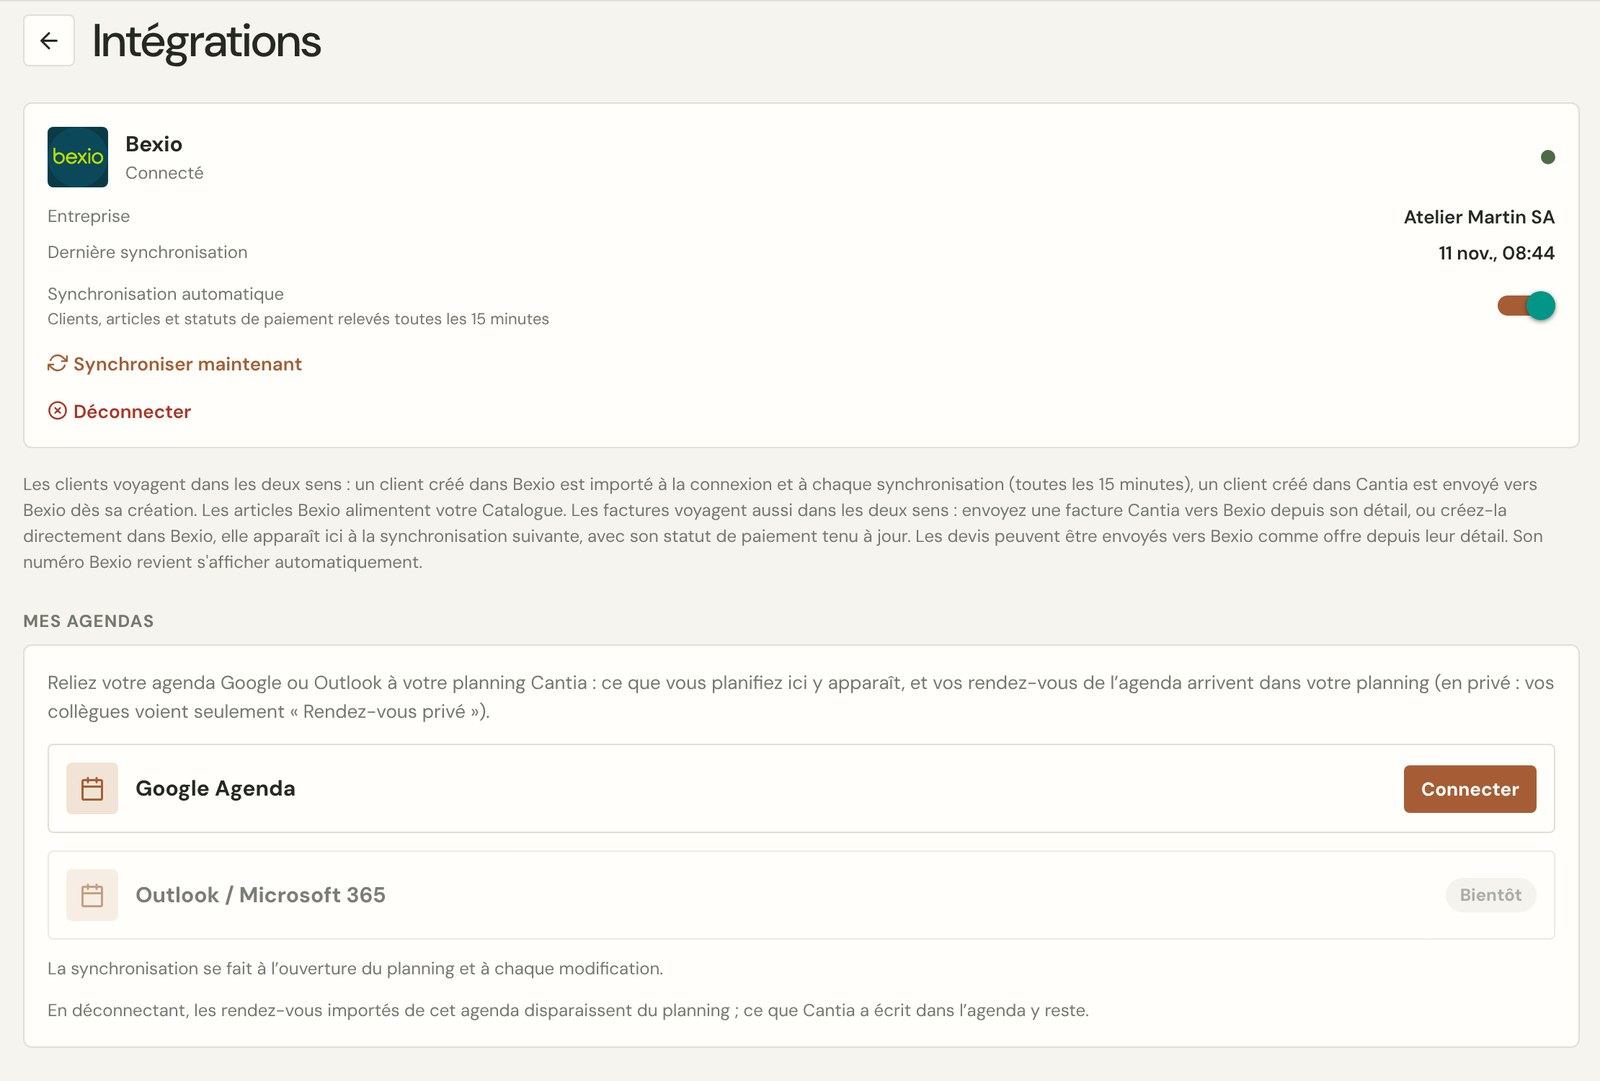
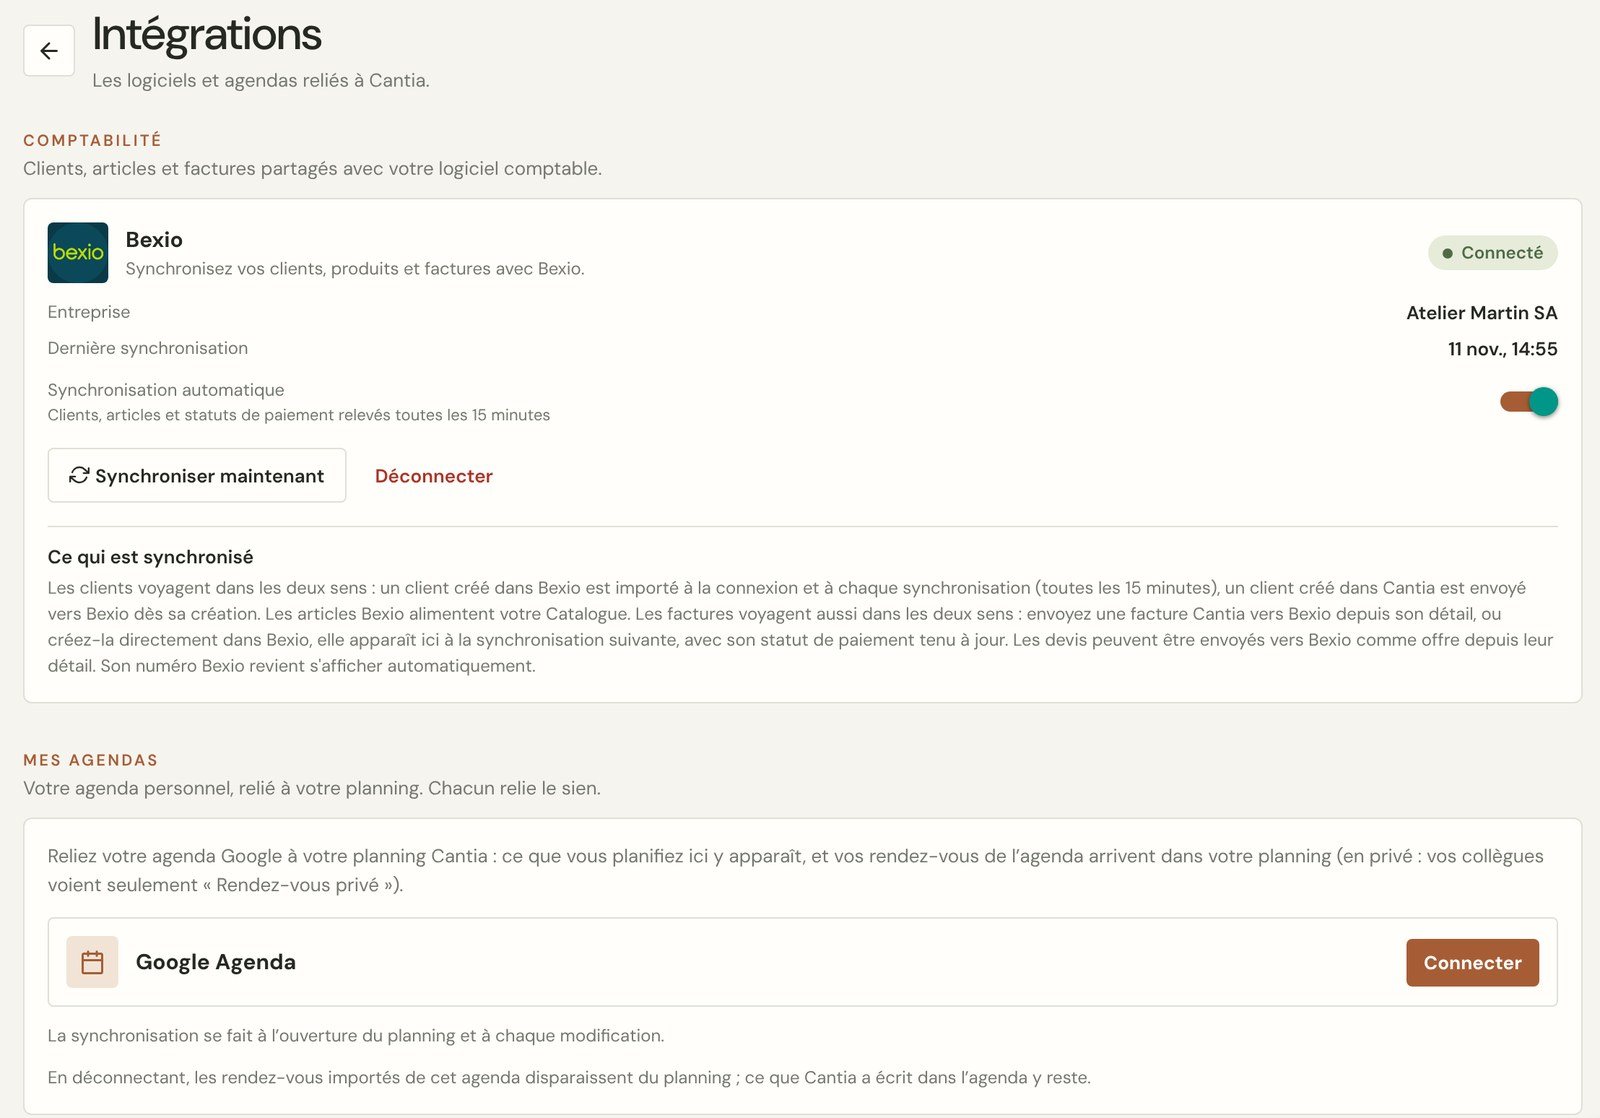
Intégrations : section « On reprend vos données » et capture Bexio à jour
Import Excel/CSV des contacts, projets, devis, factures et dépenses,
décrit tel qu'il fonctionne dans l'app. Capture sans Outlook « Bientôt ».

Claude-Session: https://claude.ai/code/session_01CbUBuqiAHhNgBBVdNwoKUJ

diff --git a/app/integrations.tsx b/app/integrations.tsx
@@ -2,7 +2,7 @@ import { StyleSheet, Text, View } from 'react-native';
 import { Feather } from '@expo/vector-icons';
 import { SolutionPage } from '../components/SolutionPage';
 import { getAppLocale, useTranslation } from '../lib/translations';
-import { ScreenShot, Section, SectionHead, useSiteLayout } from '../components/site/Sections';
+import { Callout, ScreenShot, Section, SectionHead, useSiteLayout } from '../components/site/Sections';
 import { EXPORTS } from '../components/site/exports';
 import { sans, site } from '../lib/siteTheme';
 
@@ -55,6 +55,70 @@ const SYNC = {
   },
 } as const;
 
+// Data import as it works in the app (app/(app)/compte/import.tsx):
+// .xlsx, .xls or .csv; five kinds; columns matched automatically then checked.
+const IMPORT = {
+  fr: {
+    eyebrow: 'On reprend vos données',
+    title: 'Vous ne repartez pas de zéro.',
+    text: 'Vos clients, vos projets et votre historique vous suivent. Vous les importez en quelques minutes, depuis Compte → Import de données. Vos données actuelles ne sont jamais écrasées.',
+    cards: [
+      { icon: 'file-text', title: 'Excel ou CSV', text: 'Exportez depuis votre ancien logiciel ou votre tableur : Cantia lit les fichiers .xlsx, .xls et .csv.' },
+      { icon: 'layers', title: 'Cinq types de données', text: 'Contacts, projets (chantiers), devis, factures et dépenses. Devis et factures reprennent le montant total de chaque document, pour garder l’historique.' },
+      { icon: 'check-square', title: 'Colonnes reconnues', text: 'Cantia associe vos colonnes aux bons champs. Vous vérifiez la correspondance avant d’importer.' },
+    ],
+    helpStrong: 'Un fichier compliqué ?',
+    help: 'Envoyez votre export à info@cantia.ch : nous regardons avec vous comment le reprendre.',
+  },
+  de: {
+    eyebrow: 'Wir übernehmen Ihre Daten',
+    title: 'Sie fangen nicht bei null an.',
+    text: 'Ihre Kunden, Projekte und Ihr Verlauf kommen mit. Sie importieren sie in wenigen Minuten unter Konto → Datenimport. Bestehende Daten werden nie überschrieben.',
+    cards: [
+      { icon: 'file-text', title: 'Excel oder CSV', text: 'Exportieren Sie aus Ihrer bisherigen Software oder Tabelle: Cantia liest .xlsx-, .xls- und .csv-Dateien.' },
+      { icon: 'layers', title: 'Fünf Datenarten', text: 'Kontakte, Projekte (Baustellen), Offerten, Rechnungen und Ausgaben. Offerten und Rechnungen übernehmen den Gesamtbetrag jedes Dokuments, für den Verlauf.' },
+      { icon: 'check-square', title: 'Spalten erkannt', text: 'Cantia ordnet Ihre Spalten den richtigen Feldern zu. Sie prüfen die Zuordnung vor dem Import.' },
+    ],
+    helpStrong: 'Eine schwierige Datei?',
+    help: 'Senden Sie Ihren Export an info@cantia.ch: Wir schauen gemeinsam, wie wir ihn übernehmen.',
+  },
+  it: {
+    eyebrow: 'Riprendiamo i vostri dati',
+    title: 'Non ripartite da zero.',
+    text: 'I vostri clienti, progetti e lo storico vi seguono. Li importate in pochi minuti, da Conto → Importazione dati. I dati attuali non vengono mai sovrascritti.',
+    cards: [
+      { icon: 'file-text', title: 'Excel o CSV', text: 'Esportate dal vostro vecchio software o foglio di calcolo: Cantia legge i file .xlsx, .xls e .csv.' },
+      { icon: 'layers', title: 'Cinque tipi di dati', text: 'Contatti, progetti (cantieri), preventivi, fatture e spese. Preventivi e fatture riprendono l’importo totale di ogni documento, per conservare lo storico.' },
+      { icon: 'check-square', title: 'Colonne riconosciute', text: 'Cantia associa le vostre colonne ai campi giusti. Verificate la corrispondenza prima di importare.' },
+    ],
+    helpStrong: 'Un file complicato?',
+    help: 'Inviate il vostro export a info@cantia.ch: vediamo insieme come riprenderlo.',
+  },
+} as const;
+
+function ImportSection() {
+  const locale = (getAppLocale() as 'fr' | 'de' | 'it') ?? 'fr';
+  const c = IMPORT[locale] ?? IMPORT.fr;
+  const { phone } = useSiteLayout();
+  return (
+    <Section white>
+      <SectionHead eyebrow={c.eyebrow} plain={c.title} text={c.text} />
+      <View style={[styles.cards, phone && { flexDirection: 'column', gap: 28 }]}>
+        {c.cards.map((card) => (
+          <View key={card.title} style={[styles.card, !phone && { flex: 1 }]}>
+            <Feather name={card.icon as keyof typeof Feather.glyphMap} size={18} color={site.copper} />
+            <Text style={[sans, styles.cardTitle]}>{card.title}</Text>
+            <Text style={[sans, styles.what]}>{card.text}</Text>
+          </View>
+        ))}
+      </View>
+      <View style={{ marginTop: 36 }}>
+        <Callout strong={c.helpStrong} text={c.help} />
+      </View>
+    </Section>
+  );
+}
+
 const DIR_ICON: Record<Dir, keyof typeof Feather.glyphMap> = { both: 'repeat', in: 'arrow-left', out: 'arrow-right' };
 
 function SyncTable() {
@@ -106,7 +170,7 @@ export default function IntegrationsPage() {
       subtitle={t('integrationsPage.subtitle')}
       visual={<BexioScreen />}
       visualBelow
-      afterFeatures={<SyncTable />}
+      afterFeatures={<><SyncTable /><ImportSection /></>}
       features={[
         { icon: 'users', title: t('integrationsPage.feature1Title'), text: t('integrationsPage.feature1Text') },
         { icon: 'package', title: t('integrationsPage.feature2Title'), text: t('integrationsPage.feature2Text') },
@@ -145,5 +209,8 @@ const styles = StyleSheet.create({
   name: { fontSize: 16, color: site.ink, fontWeight: '500', letterSpacing: -0.3 },
   dir: { flexDirection: 'row', alignItems: 'center', gap: 9 },
   dirText: { fontSize: 12, color: site.copper, fontWeight: '500' },
+  cards: { flexDirection: 'row', gap: 32 },
+  card: { gap: 12, paddingTop: 24, borderTopWidth: 1, borderTopColor: site.line },
+  cardTitle: { fontSize: 18, color: site.ink, fontWeight: '500', letterSpacing: -0.4 },
   what: { fontSize: 12, color: site.muted, lineHeight: 21 },
 });

diff --git a/components/site/exports.ts b/components/site/exports.ts
@@ -16,7 +16,7 @@ type Set = { app: { dash: Shot; dashMobile: Shot; tres: Shot; tresMobile: Shot; 
 export const EXPORTS: Record<SiteLocale, Set> = {
   fr: {
     app: {
-      bexio: { source: require('../../assets/marketing/site/app-bexio.jpg'), ratio: 1081 / 1600 },
+      bexio: { source: require('../../assets/marketing/site/app-bexio.jpg'), ratio: 1118 / 1600 },
       dash: { source: require('../../assets/marketing/site/app-tableau-de-bord.jpg'), ratio: 1000 / 1600 },
       dashMobile: { source: require('../../assets/marketing/site/app-tableau-de-bord-mobile.jpg'), ratio: 1688 / 780 },
       tres: { source: require('../../assets/marketing/site/app-tresorerie.jpg'), ratio: 1000 / 1600 },
@@ -32,7 +32,7 @@ export const EXPORTS: Record<SiteLocale, Set> = {
   },
   de: {
     app: {
-      bexio: { source: require('../../assets/marketing/site/app-bexio-de.jpg'), ratio: 1081 / 1600 },
+      bexio: { source: require('../../assets/marketing/site/app-bexio-de.jpg'), ratio: 1118 / 1600 },
       dash: { source: require('../../assets/marketing/site/app-tableau-de-bord-de.jpg'), ratio: 1000 / 1600 },
       dashMobile: { source: require('../../assets/marketing/site/app-tableau-de-bord-mobile-de.jpg'), ratio: 1688 / 780 },
       tres: { source: require('../../assets/marketing/site/app-tresorerie-de.jpg'), ratio: 1000 / 1600 },
@@ -48,7 +48,7 @@ export const EXPORTS: Record<SiteLocale, Set> = {
   },
   it: {
     app: {
-      bexio: { source: require('../../assets/marketing/site/app-bexio-it.jpg'), ratio: 1081 / 1600 },
+      bexio: { source: require('../../assets/marketing/site/app-bexio-it.jpg'), ratio: 1118 / 1600 },
       dash: { source: require('../../assets/marketing/site/app-tableau-de-bord-it.jpg'), ratio: 1000 / 1600 },
       dashMobile: { source: require('../../assets/marketing/site/app-tableau-de-bord-mobile-it.jpg'), ratio: 1688 / 780 },
       tres: { source: require('../../assets/marketing/site/app-tresorerie-it.jpg'), ratio: 1000 / 1600 },
